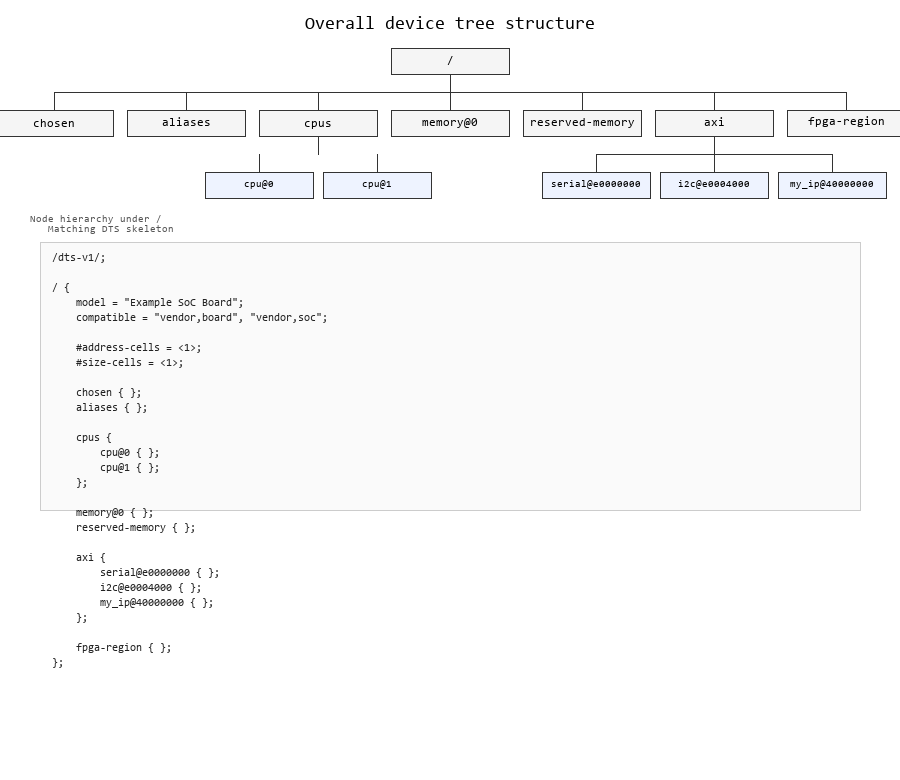
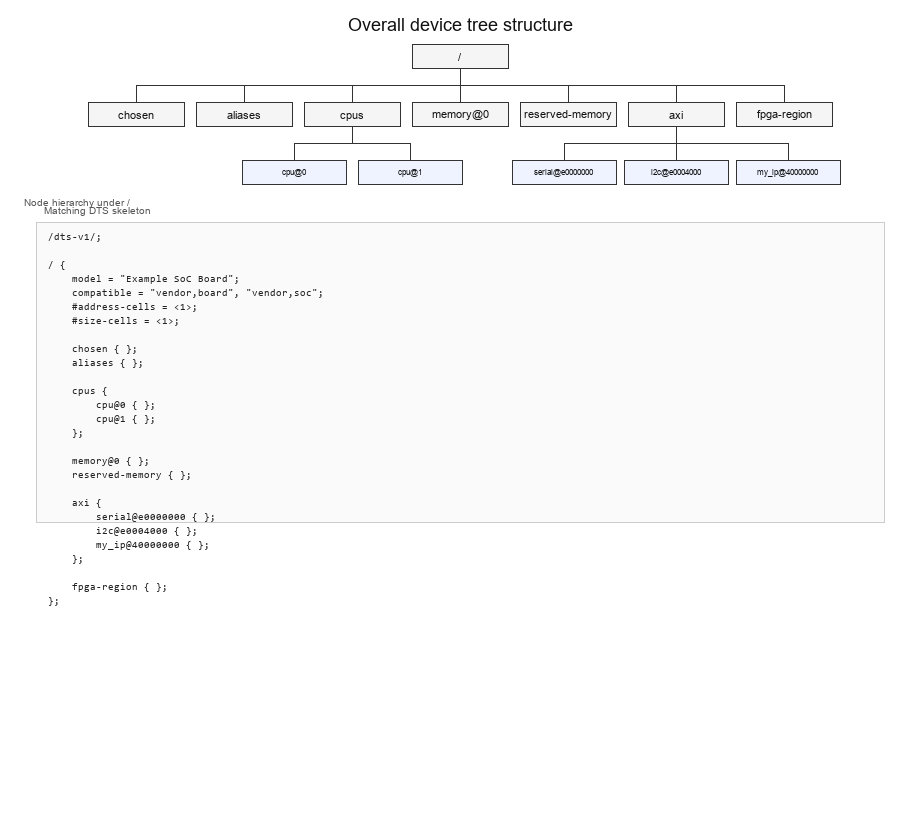
Fix Part 2 teaching figures for overall structure, reg map, and phandle.
Regenerate layout with non-overlapping skeleton code, a clean SIZE arrow, and full DT nodes linked by &clkc.

diff --git a/posts/embedded_linux/generate_part2_figures.py b/posts/embedded_linux/generate_part2_figures.py
@@ -1,0 +1,318 @@
+"""Generate Part 2 teaching figures: overall structure, reg map, phandle."""
+
+from __future__ import annotations
+
+from pathlib import Path
+
+from PIL import Image, ImageDraw, ImageFont
+
+IMG_DIR = Path(__file__).resolve().parent / "images"
+
+
+def load_font(size: int, mono: bool = False) -> ImageFont.FreeTypeFont | ImageFont.ImageFont:
+    if mono:
+        candidates = [r"C:\Windows\Fonts\consola.ttf", r"C:\Windows\Fonts\cour.ttf"]
+    else:
+        candidates = [r"C:\Windows\Fonts\arial.ttf", r"C:\Windows\Fonts\calibri.ttf"]
+    for path in candidates:
+        p = Path(path)
+        if p.exists():
+            try:
+                return ImageFont.truetype(str(p), size=size)
+            except OSError:
+                continue
+    return ImageFont.load_default()
+
+
+def text_size(draw: ImageDraw.ImageDraw, text: str, font) -> tuple[int, int]:
+    box = draw.textbbox((0, 0), text, font=font)
+    return box[2] - box[0], box[3] - box[1]
+
+
+def draw_arrow(draw: ImageDraw.ImageDraw, points: list[tuple[int, int]], width: int = 2) -> None:
+    if len(points) < 2:
+        return
+    draw.line(points, fill="#111111", width=width)
+    x1, y1 = points[-2]
+    x2, y2 = points[-1]
+    if abs(x2 - x1) >= abs(y2 - y1):
+        dx = -10 if x2 > x1 else 10
+        draw.polygon([(x2, y2), (x2 - dx, y2 - 4), (x2 - dx, y2 + 4)], fill="#111111")
+    else:
+        dy = -10 if y2 > y1 else 10
+        draw.polygon([(x2, y2), (x2 - 4, y2 - dy), (x2 + 4, y2 - dy)], fill="#111111")
+
+
+def draw_overall_structure(path: Path) -> None:
+    W, H = 920, 820
+    img = Image.new("RGB", (W, H), "white")
+    draw = ImageDraw.Draw(img)
+    title_font = load_font(18)
+    label_font = load_font(11)
+    code_font = load_font(10, mono=True)
+    note_font = load_font(10)
+
+    title = "Overall device tree structure"
+    tw, _ = text_size(draw, title, title_font)
+    draw.text(((W - tw) / 2, 14), title, fill="#111", font=title_font)
+
+    box_w, box_h, gap = 96, 24, 12
+
+    def node_box(x, y, text, fill="#f5f5f5", width=None, font=None):
+        w = width or box_w
+        font = font or label_font
+        draw.rectangle([x, y, x + w, y + box_h], fill=fill, outline="#333", width=1)
+        ttw, tth = text_size(draw, text, font)
+        draw.text((x + (w - ttw) / 2, y + (box_h - tth) / 2 - 1), text, fill="#111", font=font)
+
+    def hline(x1, x2, y):
+        draw.line([x1, y, x2, y], fill="#333", width=1)
+
+    def vline(x, y1, y2):
+        draw.line([x, y1, x, y2], fill="#333", width=1)
+
+    root_x = W // 2 - box_w // 2
+    root_y = 44
+    node_box(root_x, root_y, "/")
+    root_cx = W // 2
+    root_bot = root_y + box_h
+
+    tops = ["chosen", "aliases", "cpus", "memory@0", "reserved-memory", "axi", "fpga-region"]
+    total = len(tops) * box_w + (len(tops) - 1) * gap
+    start_x = (W - total) // 2
+    child_y = root_y + 58
+    mids = []
+    bus_y = root_bot + (child_y - root_bot) // 2
+    for i, name in enumerate(tops):
+        x = start_x + i * (box_w + gap)
+        node_box(x, child_y, name)
+        cx = x + box_w // 2
+        mids.append(cx)
+        vline(cx, bus_y, child_y)
+    vline(root_cx, root_bot, bus_y)
+    hline(mids[0], mids[-1], bus_y)
+
+    sub_y = child_y + 58
+    sub_w = 104
+    sub_font = load_font(8)
+
+    cpus_i = tops.index("cpus")
+    cpus_cx = start_x + cpus_i * (box_w + gap) + box_w // 2
+    cpu_names = ["cpu@0", "cpu@1"]
+    cpu_total = len(cpu_names) * sub_w + gap
+    cpu_start = cpus_cx - cpu_total // 2
+    cpu_bus = child_y + box_h + (sub_y - child_y - box_h) // 2
+    for i, name in enumerate(cpu_names):
+        x = cpu_start + i * (sub_w + gap)
+        node_box(x, sub_y, name, fill="#eef3ff", width=sub_w, font=sub_font)
+        cx = x + sub_w // 2
+        vline(cx, cpu_bus, sub_y)
+    vline(cpus_cx, child_y + box_h, cpu_bus)
+    hline(cpu_start + sub_w // 2, cpu_start + sub_w + gap + sub_w // 2, cpu_bus)
+
+    axi_i = tops.index("axi")
+    axi_cx = start_x + axi_i * (box_w + gap) + box_w // 2
+    axi_children = ["serial@e0000000", "i2c@e0004000", "my_ip@40000000"]
+    sub_total = len(axi_children) * sub_w + (len(axi_children) - 1) * 8
+    sub_start = axi_cx - sub_total // 2
+    axi_bus = cpu_bus
+    sub_centers = []
+    for i, name in enumerate(axi_children):
+        x = sub_start + i * (sub_w + 8)
+        node_box(x, sub_y, name, fill="#eef3ff", width=sub_w, font=sub_font)
+        cx = x + sub_w // 2
+        sub_centers.append(cx)
+        vline(cx, axi_bus, sub_y)
+    vline(axi_cx, child_y + box_h, axi_bus)
+    hline(sub_centers[0], sub_centers[-1], axi_bus)
+
+    draw.text((24, sub_y + 36), "Node hierarchy under /", fill="#555", font=note_font)
+
+    skeleton = """/dts-v1/;
+
+/ {
+    model = "Example SoC Board";
+    compatible = "vendor,board", "vendor,soc";
+    #address-cells = <1>;
+    #size-cells = <1>;
+
+    chosen { };
+    aliases { };
+
+    cpus {
+        cpu@0 { };
+        cpu@1 { };
+    };
+
+    memory@0 { };
+    reserved-memory { };
+
+    axi {
+        serial@e0000000 { };
+        i2c@e0004000 { };
+        my_ip@40000000 { };
+    };
+
+    fpga-region { };
+};"""
+
+    code_y = sub_y + 62
+    rx, ry, rw, rh = 36, code_y, W - 72, 300
+    draw.rectangle([rx, ry, rx + rw, ry + rh], fill="#fafafa", outline="#ccc", width=1)
+    draw.text((rx + 8, ry - 18), "Matching DTS skeleton", fill="#555", font=note_font)
+    y = ry + 10
+    for line in skeleton.splitlines():
+        draw.text((rx + 12, y), line, fill="#222", font=code_font)
+        y += 14
+
+    img.save(path)
+
+
+def draw_reg_map(path: Path) -> None:
+    W, H = 700, 430
+    img = Image.new("RGB", (W, H), "white")
+    draw = ImageDraw.Draw(img)
+    title_font = load_font(18)
+    label_font = load_font(12)
+    code_font = load_font(13, mono=True)
+    small_font = load_font(10)
+
+    title = "What reg means in the address map"
+    tw, _ = text_size(draw, title, title_font)
+    draw.text(((W - tw) / 2, 14), title, fill="#111", font=title_font)
+
+    bar_x, bar_y, bar_w, bar_h = 62, 62, 34, 250
+    draw.rectangle([bar_x, bar_y, bar_x + bar_w, bar_y + bar_h], outline="#333", width=1)
+    draw.text((bar_x + bar_w + 10, bar_y - 2), "CPU address space", fill="#444", font=small_font)
+    draw.text((bar_x - 6, bar_y - 12), "0x00000000", fill="#666", font=small_font, anchor="rt")
+    draw.text((bar_x - 6, bar_y + bar_h + 2), "0xFFFFFFFF", fill="#666", font=small_font, anchor="rt")
+
+    region_top = bar_y + 68
+    region_h = 52
+    region_bot = region_top + region_h
+    draw.rectangle([bar_x, region_top, bar_x + bar_w, region_bot], fill="#d8d8d8", outline="#666", width=1)
+
+    base_label = "BASE 0xE0000000"
+    size_label = "SIZE 0x1000"
+    draw.text((bar_x + bar_w + 16, region_top - 6), base_label, fill="#111", font=label_font)
+    draw.text((bar_x + bar_w + 16, region_bot - 4), "0xE0001000", fill="#666", font=small_font)
+
+    bx = bar_x + bar_w + 8
+    draw.line([bx, region_top, bx + 7, region_top], fill="#333", width=1)
+    draw.line([bx, region_bot, bx + 7, region_bot], fill="#333", width=1)
+    draw.line([bx + 7, region_top, bx + 7, region_bot], fill="#333", width=1)
+    size_y = region_top + region_h // 2 - 6
+    draw.text((bar_x + bar_w + 20, size_y), size_label, fill="#111", font=label_font)
+
+    code = "reg = < 0xE0000000  0x1000 >;"
+    cx, cy, cw, ch = 285, 150, 360, 52
+    draw.rectangle([cx, cy, cx + cw, cy + ch], fill="#fafafa", outline="#333", width=1)
+    draw.text((cx + 16, cy + 16), code, fill="#111", font=code_font)
+
+    val1_x = cx + 16 + text_size(draw, "reg = < ", code_font)[0]
+    val2_x = cx + 16 + text_size(draw, "reg = < 0xE0000000  ", code_font)[0]
+    val_y = cy + 18
+
+    base_lx = bar_x + bar_w + 16 + text_size(draw, base_label, label_font)[0]
+    base_ly = region_top + 2
+    draw_arrow(draw, [(base_lx + 4, base_ly), (val1_x, base_ly), (val1_x, val_y + 12)])
+
+    size_lx = bar_x + bar_w + 20 + text_size(draw, size_label, label_font)[0]
+    size_ly = size_y + 8
+    route_y = region_bot + 28
+    draw_arrow(draw, [(size_lx + 4, size_ly), (val2_x, size_ly), (val2_x, route_y), (val2_x, val_y + 12)])
+
+    img.save(path)
+
+
+def draw_node_box(
+    draw: ImageDraw.ImageDraw,
+    x: int,
+    y: int,
+    title: str,
+    lines: list[str],
+    font,
+    title_font,
+    min_w: int = 300,
+) -> tuple[int, int, int, int]:
+    pad_x, pad_y = 14, 12
+    line_h = 16
+    inner_w = max(min_w, max(text_size(draw, ln, font)[0] for ln in lines) + 8)
+    inner_w = max(inner_w, text_size(draw, title, title_font)[0] + 8)
+    h = pad_y + line_h + 8 + len(lines) * line_h + pad_y
+    draw.rectangle([x, y, x + inner_w + 2 * pad_x, y + h], fill="#f7f7f7", outline="#333", width=1)
+    draw.text((x + pad_x, y + pad_y), title, fill="#111", font=title_font)
+    ty = y + pad_y + line_h + 6
+    for ln in lines:
+        draw.text((x + pad_x, ty), ln, fill="#222", font=font)
+        ty += line_h
+    return x, y, x + inner_w + 2 * pad_x, y + h
+
+
+def draw_phandle(path: Path) -> None:
+    W, H = 860, 360
+    img = Image.new("RGB", (W, H), "white")
+    draw = ImageDraw.Draw(img)
+    title_font = load_font(18)
+    node_title = load_font(12)
+    code_font = load_font(11, mono=True)
+    note_font = load_font(11)
+
+    title = "Phandle links nodes"
+    tw, _ = text_size(draw, title, title_font)
+    draw.text(((W - tw) / 2, 14), title, fill="#111", font=title_font)
+
+    serial_lines = [
+        "serial@e0000000 {",
+        '    compatible = "xlnx,xuartps", "cdns,uart-r1p8";',
+        "    reg = <0xe0000000 0x1000>;",
+        "    clocks = <&clkc 23>, <&clkc 40>;",
+        '    clock-names = "uart_clk", "pclk";',
+        "};",
+    ]
+    clk_lines = [
+        "clkc: clock-controller@f8000000 {",
+        '    compatible = "xlnx,clkc";',
+        "    reg = <0xf8000000 0x1000>;",
+        "    #clock-cells = <1>;",
+        "};",
+    ]
+
+    left = draw_node_box(draw, 36, 58, "UART node", serial_lines, code_font, node_title, min_w=330)
+    right = draw_node_box(draw, 470, 58, "Clock controller node", clk_lines, code_font, node_title, min_w=320)
+
+    # Arrow from clocks property in UART node to clkc label on clock-controller node
+    clocks_y = 58 + 12 + 16 + 6 + 3 * 16 + 8
+    target_x = right[0]
+    target_y = 58 + 12 + 16 + 6 + 8
+    draw_arrow(
+        draw,
+        [
+            (left[2] - 12, clocks_y + 6),
+            (target_x - 24, clocks_y + 6),
+            (target_x - 24, target_y + 6),
+            (target_x - 4, target_y + 6),
+        ],
+        width=2,
+    )
+
+    draw.text(
+        ((W - text_size(draw, "&clkc points at the labeled clock-controller node", note_font)[0]) / 2, 300),
+        "&clkc points at the labeled clock-controller node",
+        fill="#444",
+        font=note_font,
+    )
+
+    img.save(path)
+
+
+def main() -> None:
+    IMG_DIR.mkdir(parents=True, exist_ok=True)
+    draw_overall_structure(IMG_DIR / "image2_p2.png")
+    draw_reg_map(IMG_DIR / "image3_p2.png")
+    draw_phandle(IMG_DIR / "image4_p2.png")
+    print("Wrote figures to", IMG_DIR)
+
+
+if __name__ == "__main__":
+    main()